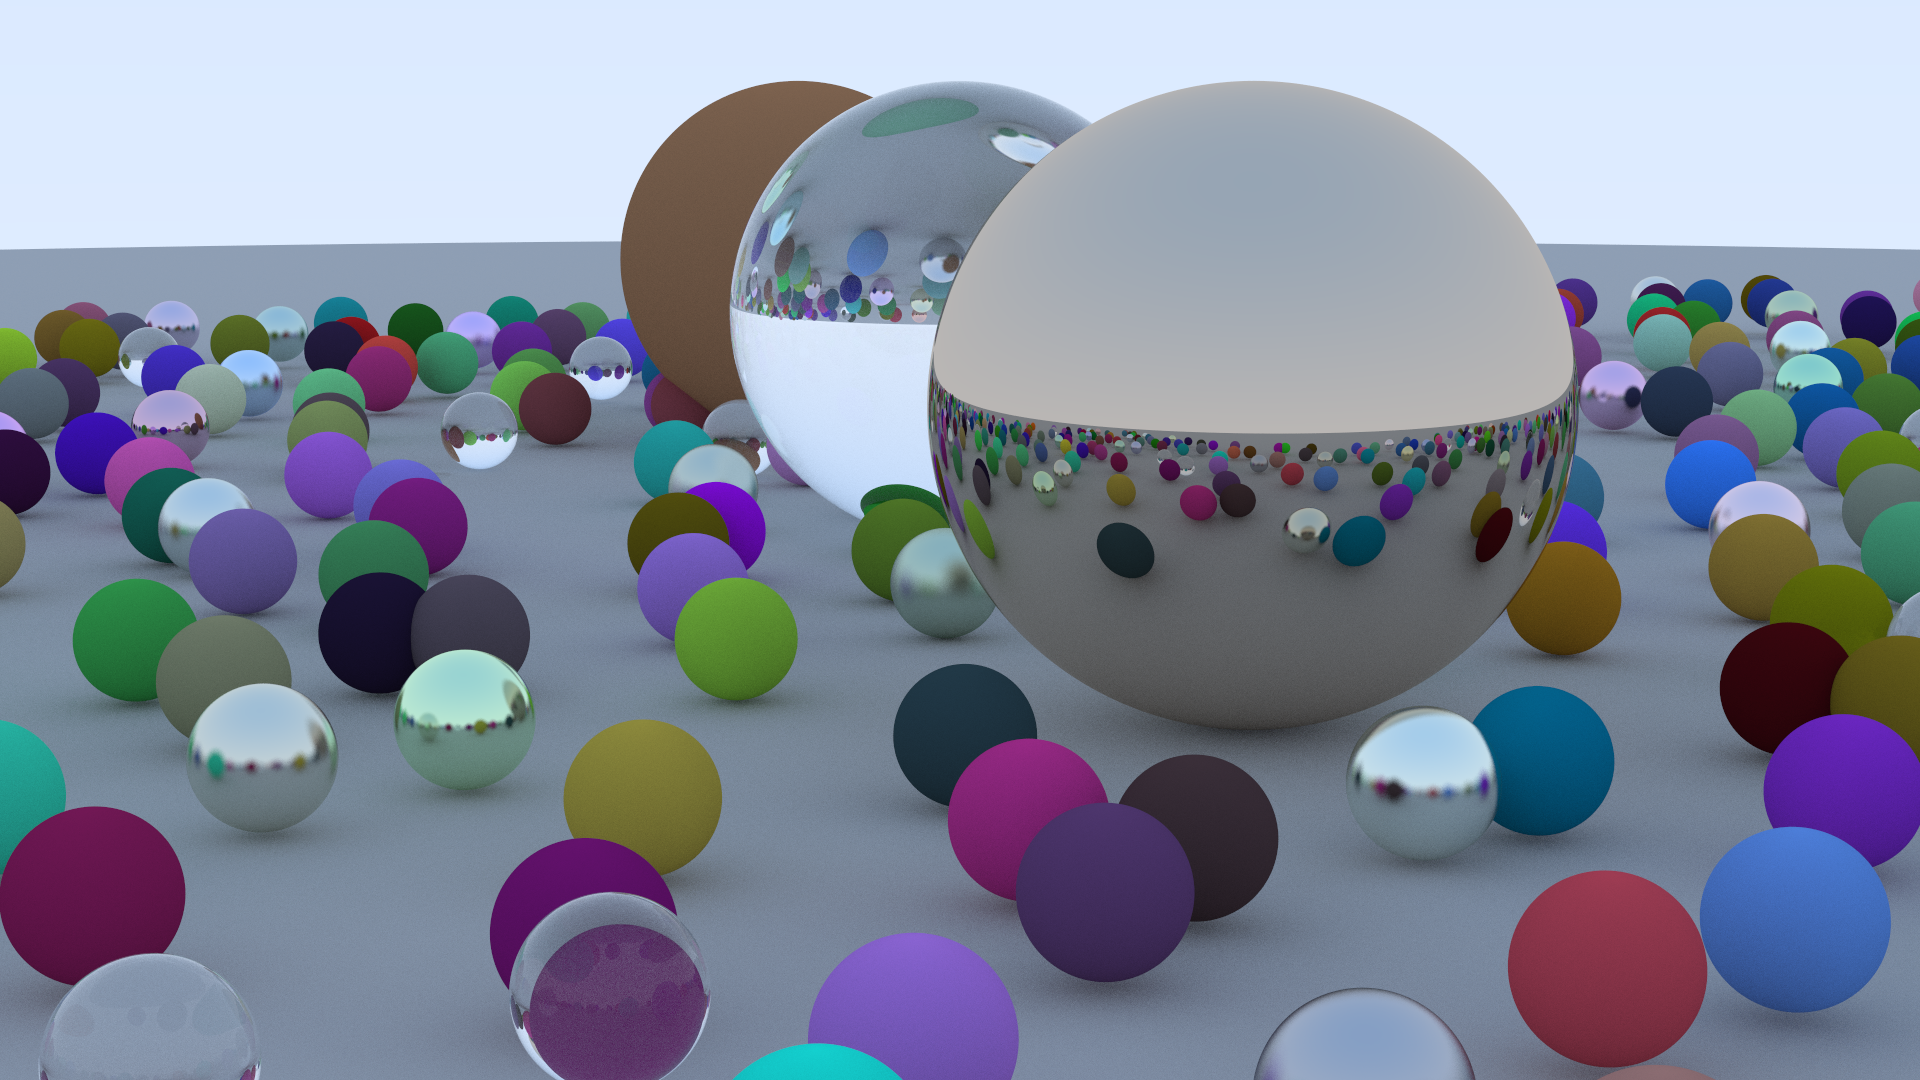
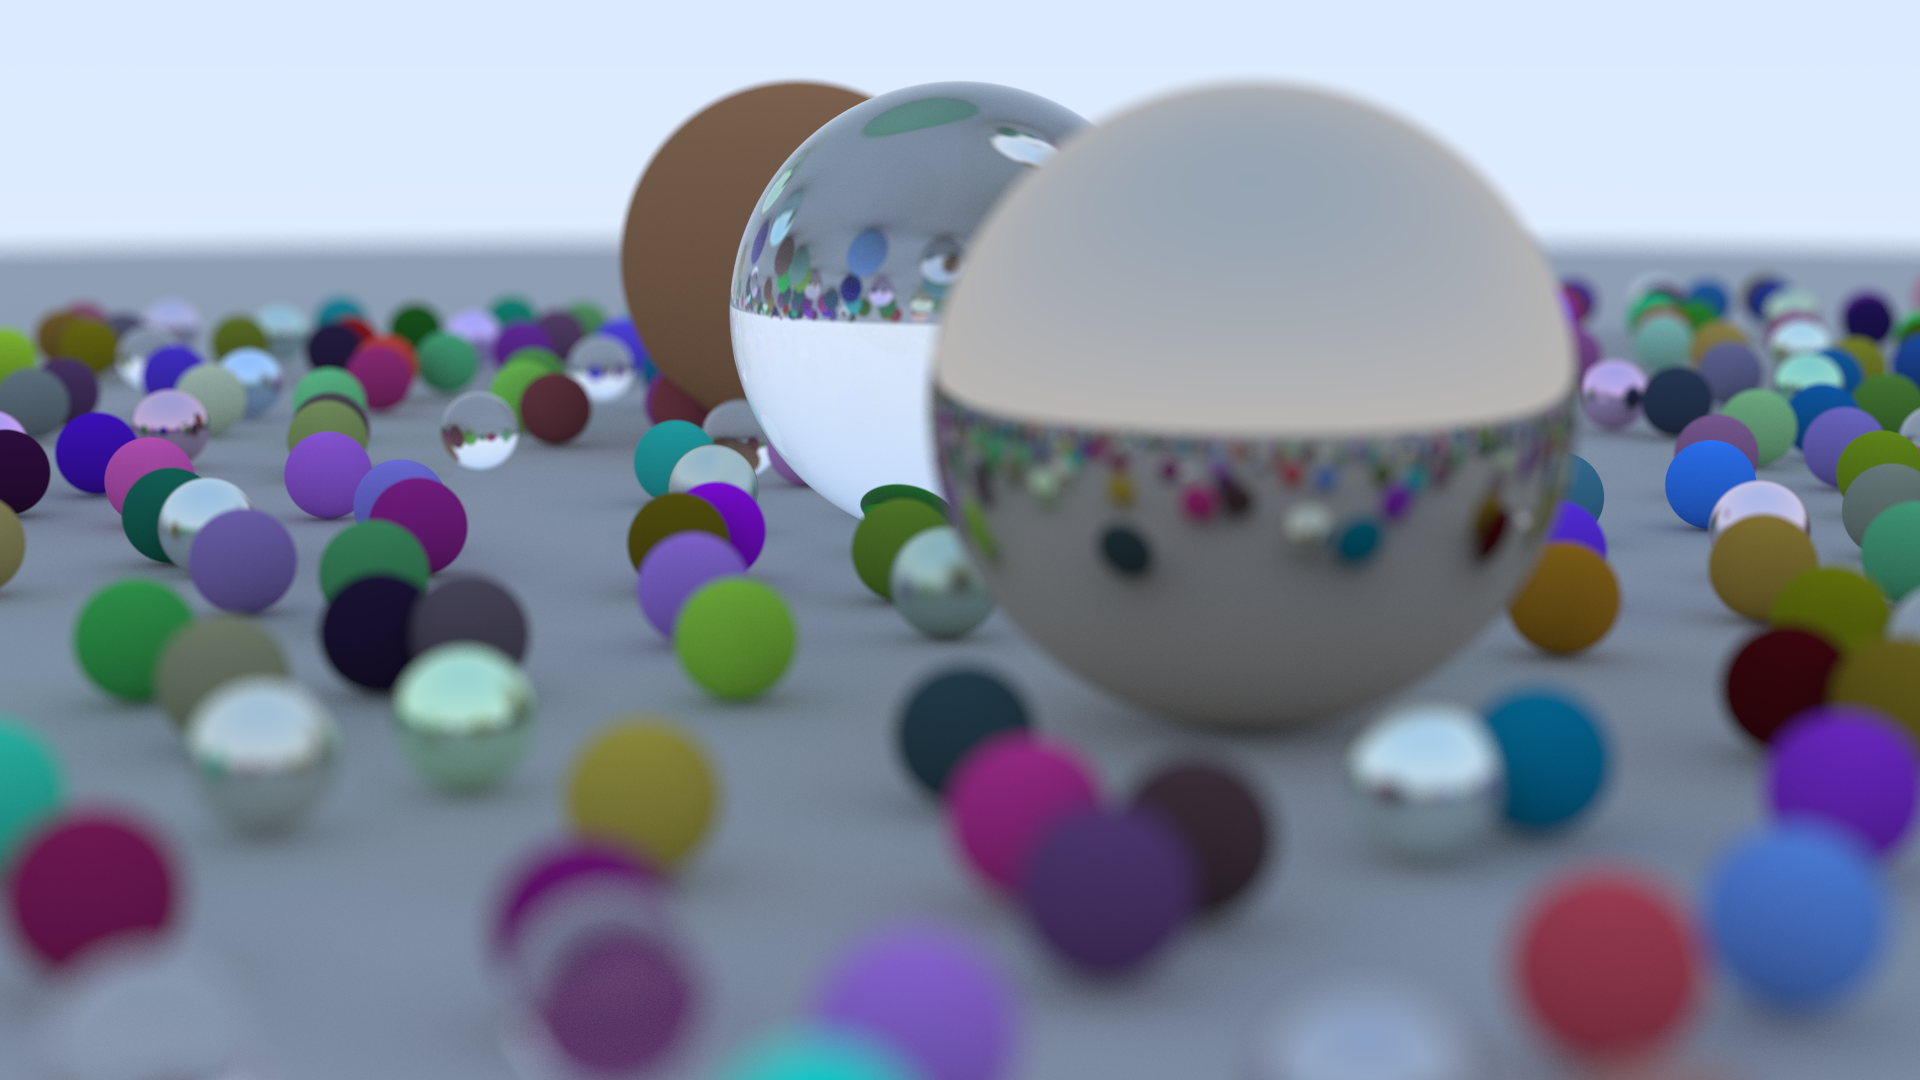
Defocus blur

diff --git a/src/camera.rs b/src/camera.rs
@@ -1,4 +1,7 @@
-use crate::math::{Float, Ray, Vector2, Vector3};
+use crate::{
+    math::{Float, Ray, Vector2, Vector3},
+    random::Random,
+};
 
 pub struct Camera<F> {
     eye: Vector3<F>, 
@@ -6,32 +9,49 @@ pub struct Camera<F> {
     up: Vector3<F>,
     forward: Vector3<F>,
     viewport: Vector2<F>,
+    lens_radius: F,
+    focus: F,
 }
 
 impl<F: Float> Camera<F> {
-    pub fn new(eye: Vector3<F>, target: Vector3<F>, up: Vector3<F>, fov: F, aspect: F) -> Self {
+    pub fn new(
+        eye: Vector3<F>, 
+        target: Vector3<F>, 
+        up: Vector3<F>, 
+        fov: F, 
+        aspect: F,
+        aperture: F,
+    ) -> Self {
         let theta = fov.to().to_radians();
         let height = F::of(2.0 * (0.5 * theta).tan());
         let viewport = Vector2::new(height * aspect, height);
         let forward = (target - eye).normalized();
         let right = forward.cross(up).normalized();
         let up = right.cross(forward);
+        let lens_radius = F::HALF * aperture;
+        let focus = (target - eye).length();
         Self {
             eye,
             right,
             up,
             forward,
             viewport,
+            lens_radius,
+            focus,
         }
     }
 
-    pub fn ray(&self, uv: Vector2<F>) -> Ray<F> {
+    pub fn ray(&self, uv: Vector2<F>, random: &mut Random) -> Ray<F> {
+        let rd = random.in_disk() * self.lens_radius;
+        let offset = self.right * rd.x + self.up * rd.y;
         Ray {
-            origin: self.eye,
+            origin: self.eye + offset,
             direction: (
-                self.forward + 
-                self.right * self.viewport.x * (uv.x - F::HALF) + 
-                self.up * self.viewport.y * (uv.y - F::HALF)
+                (
+                    self.forward + 
+                    self.right * self.viewport.x * (uv.x - F::HALF) + 
+                    self.up * self.viewport.y * (uv.y - F::HALF)
+                ) * self.focus - offset
             ).normalized(),
         }
     } 

diff --git a/src/random.rs b/src/random.rs
@@ -26,6 +26,10 @@ impl Random {
         F::of(self.next_state() as f64 / 4294967296.0)
     }
 
+    pub fn in_range<F: Float>(&mut self, min: F, max: F) -> F {
+        min + (max - min) * self.range01()
+    }
+
     pub fn probability<F: Float>(&mut self, probability: F) -> bool {
         self.range01::<F>() < probability
     }
@@ -33,9 +37,9 @@ impl Random {
     pub fn in_sphere<F: Float>(&mut self) -> Vector3<F> {
         loop {
             let v = Vector3::new(
-                self.range01::<F>() * F::TWO - F::ONE, 
-                self.range01::<F>() * F::TWO - F::ONE,
-                self.range01::<F>() * F::TWO - F::ONE,
+                self.in_range::<F>(-F::ONE, F::ONE), 
+                self.in_range::<F>(-F::ONE, F::ONE),
+                self.in_range::<F>(-F::ONE, F::ONE),
             );
             if v.length_squared() < F::ONE {
                 return v;
@@ -49,6 +53,18 @@ impl Random {
             in_sphere
         } else {
             -in_sphere
+        }
+    }
+
+    pub fn in_disk<F: Float>(&mut self) -> Vector2<F> {
+        loop {
+            let v = Vector2::new(
+                self.in_range::<F>(-F::ONE, F::ONE),
+                self.in_range::<F>(-F::ONE, F::ONE),
+            );
+            if v.length_squared() < F::ONE {
+                return v;
+            }
         }
     }
 

diff --git a/examples/in_one_weekend.rs b/examples/in_one_weekend.rs
@@ -1,15 +1,15 @@
 fn main() -> rays::RayResult<()> {
     let config = rays::Config {
         image: rays::ImageConfig {
-            path: "ray-marcher.png".to_string(),
+            path: "ray-tracer.png".to_string(),
             width: 1920,
             height: 1080,
             gamma_correction: true,
         },
         precision: rays::Precision::F64,
         max_depth: 50,
-        samples: 10,
-        renderer: rays::RenderMode::RayMarcher,
+        samples: 1024,
+        renderer: rays::RenderMode::RayTracer,
         show_progress: true,
     };
     rays::run_loader(&config, Loader)
@@ -111,7 +111,8 @@ impl rays::SceneLoader for Loader {
             camera: rays::CameraDef {
                 eye: rays::Vector3::new(F::of(13.0), F::of(2.0), F::of(3.0)),
                 target: rays::Vector3::ZERO,
-                fov: F::of(20.0)
+                fov: F::of(20.0),
+                aperture: F::of(0.2),
             },
             background: rays::Background {
                 top: rays::Color::new(F::of(0.5), F::of(0.7), F::of(1.0)),

diff --git a/src/math.rs b/src/math.rs
@@ -98,6 +98,24 @@ impl<F> Vector2<F> {
     }
 }
 
+impl<F: Float> Vector2<F> {
+    pub fn length(self) -> F {
+        (self.x * self.x + self.y * self.y).sqrt()
+    }
+
+    pub fn length_squared(self) -> F {
+        self.x * self.x + self.y * self.y
+    }
+}
+
+impl<F: Float> ops::Mul<F> for Vector2<F> {
+    type Output = Self;
+
+    fn mul(self, other: F) -> Self::Output {
+        Self::new(self.x * other, self.y * other)
+    }
+}
+
 #[derive(Copy, Clone, Debug, Default, PartialEq)]
 #[derive(Deserialize)]
 pub struct Vector3<F> {

diff --git a/src/ray_tracer.rs b/src/ray_tracer.rs
@@ -38,7 +38,7 @@ impl RayTracer {
 
 impl PixelRenderer for RayTracer {
     fn render_pixel<F: Float>(&self, scene: &Scene<F>, pixel: Pixel<F>, random: &mut Random) -> Color<F> {
-        let ray = scene.camera.ray(random.in_pixel(pixel));
+        let ray = scene.camera.ray(random.in_pixel(pixel), random);
         self.cast_ray(&ray, scene, self.max_depth, random)
     }
 }

diff --git a/src/scene.rs b/src/scene.rs
@@ -20,7 +20,8 @@ impl<F: Float> Scene<F> {
                 def.camera.target,
                 Vector3::new(F::ZERO, F::ONE, F::ZERO),
                 def.camera.fov, 
-                aspect
+                aspect,
+                def.camera.aperture,
             ),
             background: def.background,
             objects: def.objects,

diff --git a/src/ray_marcher.rs b/src/ray_marcher.rs
@@ -24,7 +24,7 @@ impl PixelRenderer for RayMarcher {
         let min_t = F::of(MIN_T);
         let max_t = F::of(MAX_T);
         let uv = random.in_pixel(pixel);
-        let mut ray = scene.camera.ray(uv);
+        let mut ray = scene.camera.ray(uv, random);
         loop {
             let hit = scene.objects
                 .iter()

diff --git a/src/def.rs b/src/def.rs
@@ -17,4 +17,5 @@ pub struct CameraDef<F> {
     pub eye: Vector3<F>,
     pub target: Vector3<F>,
     pub fov: F,
+    pub aperture: F,
 }
